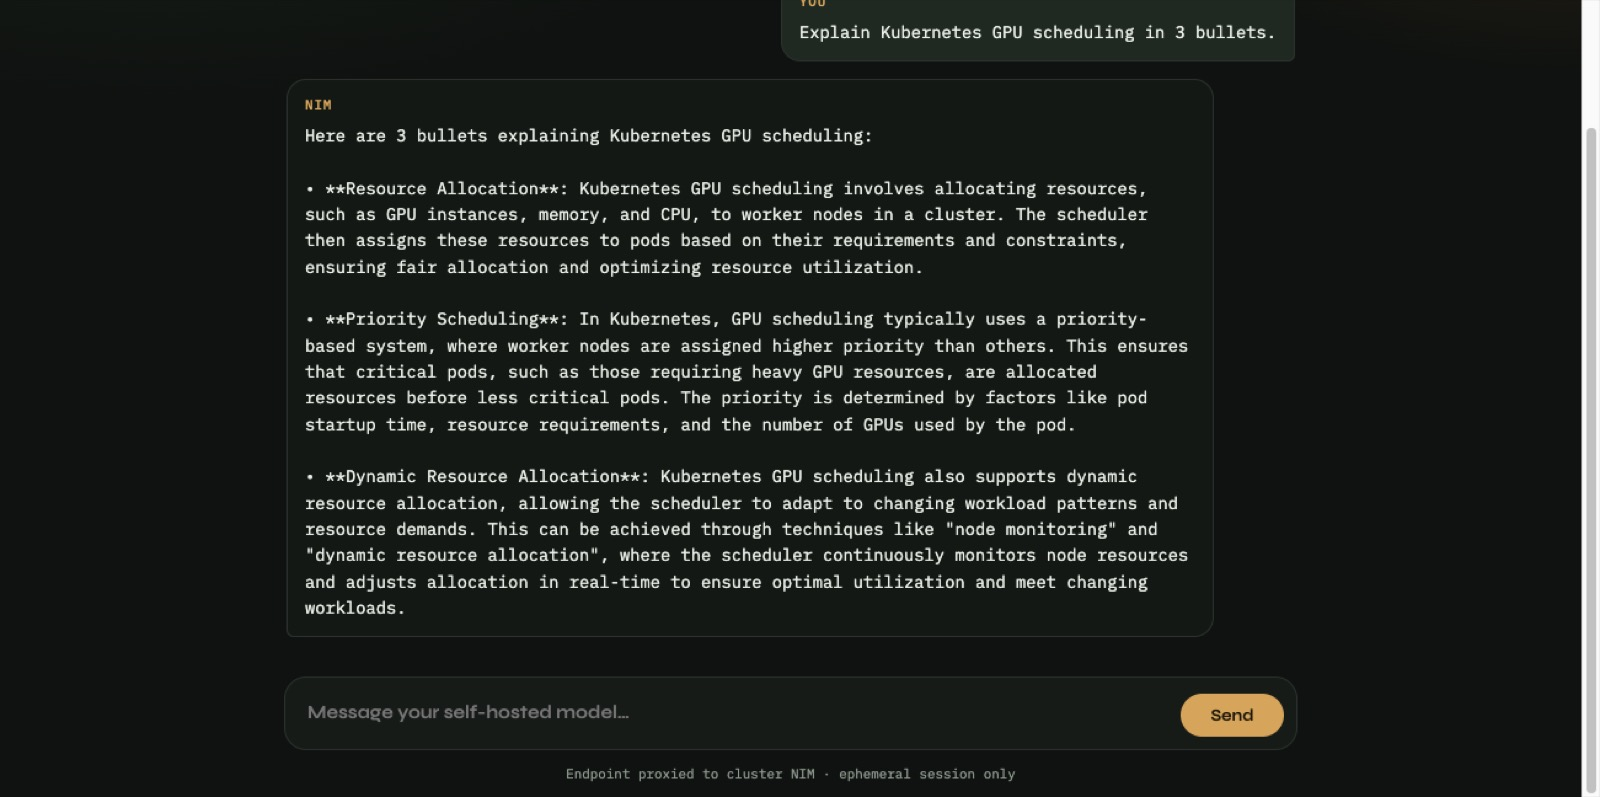
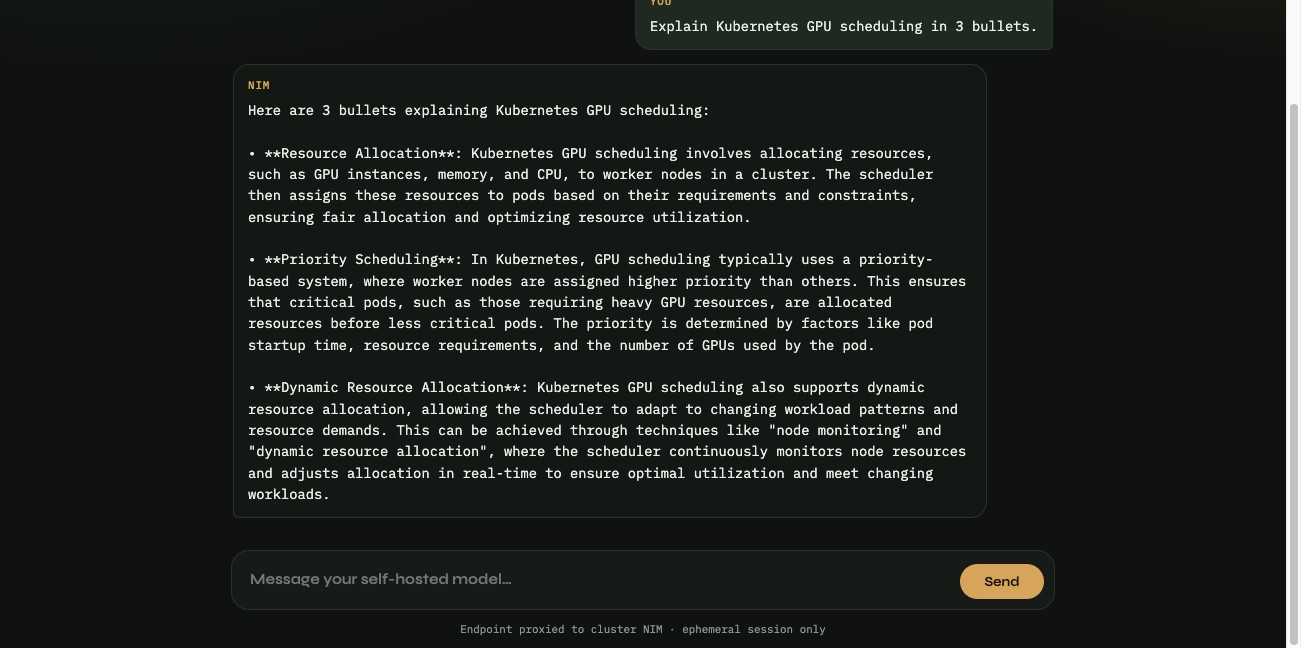
Fix blog screenshots: use native SVGs and trim chat UI padding.

diff --git a/Documents/aks-nim-llm-inference-on-azure.md b/Documents/aks-nim-llm-inference-on-azure.md
@@ -85,7 +85,7 @@ You do **not** need to memorize these. Come back here when a word appears.
 
 ## 3. What we built (big picture)
 
-![Lab overview](/documents/aks-nim-llm/00-lab-overview.jpg)
+![Lab overview](/documents/aks-nim-llm/00-lab-overview.svg)
 
 *Figure: end-to-end flow from AKS create → GPU → Operator → CUDA → NIM → inference.*
 
@@ -287,7 +287,7 @@ source ./00-env.sh
 **Why system pool is CPU-only:**  
 Kubernetes system pods should not sit on expensive GPUs.
 
-![Stage 01 — create AKS](/documents/aks-nim-llm/01-create-aks.jpg)
+![Stage 01 — create AKS](/documents/aks-nim-llm/01-create-aks.svg)
 
 *Figure: creating the resource group and AKS system pool.*
 
@@ -315,13 +315,13 @@ You should see one Ready node (system pool).
 **Why the taint?**  
 Stops random workloads from consuming the GPU node.
 
-![Stage 02 — GPU node pool](/documents/aks-nim-llm/02-add-gpu-nodepool.jpg)
+![Stage 02 — GPU node pool](/documents/aks-nim-llm/02-add-gpu-nodepool.svg)
 
 *Figure: GPU pool created with driver install skipped.*
 
 Verify nodes (live lab capture):
 
-![kubectl get nodes](/documents/aks-nim-llm/kubectl-get-nodes.jpg)
+![kubectl get nodes](/documents/aks-nim-llm/kubectl-get-nodes.svg)
 
 *Figure: system node + GPU node; GPU column shows `1` after Operator is healthy.*
 
@@ -336,13 +336,13 @@ Verify nodes (live lab capture):
 **Why tolerations matter (we learned the hard way):**  
 Without them, Operator pods stay on the CPU node, drivers never install on the GPU node, and Kubernetes reports **no GPU** (`nvidia.com/gpu` missing). CUDA jobs stay Pending forever.
 
-![Stage 03 — GPU Operator](/documents/aks-nim-llm/03-install-gpu-operator.jpg)
+![Stage 03 — GPU Operator](/documents/aks-nim-llm/03-install-gpu-operator.svg)
 
 *Figure: Operator deployed; GPU allocatable becomes 1.*
 
 Operator pods look like this:
 
-![GPU Operator pods](/documents/aks-nim-llm/kubectl-get-pods-gpu-operator.jpg)
+![GPU Operator pods](/documents/aks-nim-llm/kubectl-get-pods-gpu-operator.svg)
 
 *Figure: driver, device-plugin, toolkit, validators running.*
 
@@ -357,7 +357,7 @@ Operator pods look like this:
 
 **Why:** before downloading a huge NIM image, prove the GPU path works.
 
-![Stage 04 — CUDA Test PASSED](/documents/aks-nim-llm/04-validate-gpu.jpg)
+![Stage 04 — CUDA Test PASSED](/documents/aks-nim-llm/04-validate-gpu.svg)
 
 *Figure: CUDA vector addition completed with **Test PASSED**.*
 
@@ -387,13 +387,13 @@ T4 has **16 GB** GPU memory. Llama-3.1-8B is typically too large. We used:
 - image: `nvcr.io/nim/meta/llama-3.2-1b-instruct:1.12.0`  
 - env: `NIM_RELAX_MEM_CONSTRAINTS=1`  
 
-![Stage 05 — deploy NIM](/documents/aks-nim-llm/05-deploy-nim.jpg)
+![Stage 05 — deploy NIM](/documents/aks-nim-llm/05-deploy-nim.svg)
 
 *Figure: Helm release deployed; service received a public IP.*
 
 NIM pods/services:
 
-![kubectl get nim](/documents/aks-nim-llm/kubectl-get-nim.jpg)
+![kubectl get nim](/documents/aks-nim-llm/kubectl-get-nim.svg)
 
 *Figure: `llm-nim-0` Running and LoadBalancer EXTERNAL-IP assigned.*
 
@@ -401,7 +401,7 @@ NIM pods/services:
 
 Cluster status snapshot:
 
-![Cluster status](/documents/aks-nim-llm/06-cluster-status.jpg)
+![Cluster status](/documents/aks-nim-llm/06-cluster-status.svg)
 
 ---
 
@@ -415,7 +415,7 @@ Calls:
 2. `/v1/models`  
 3. `/v1/chat/completions`  
 
-![Inference response](/documents/aks-nim-llm/07-inference-response.jpg)
+![Inference response](/documents/aks-nim-llm/07-inference-response.svg)
 
 *Figure: health OK + sample chat completion from the self-hosted model.*
 
@@ -478,25 +478,25 @@ After teardown those IPs die — treat them as historical examples.
 
 **Why:** confirms the server finished loading the model.
 
-![curl health](/documents/aks-nim-llm/curl-health.jpg)
+![curl health](/documents/aks-nim-llm/curl-health.svg)
 
 ### List models
 
 **Why:** shows the exact model id string you must send in chat requests.
 
-![curl models](/documents/aks-nim-llm/curl-models.jpg)
+![curl models](/documents/aks-nim-llm/curl-models.svg)
 
 ### Chat completion
 
 **Why:** this is the same API shape many apps use for OpenAI.
 
-![curl chat](/documents/aks-nim-llm/curl-chat-completions.jpg)
+![curl chat](/documents/aks-nim-llm/curl-chat-completions.svg)
 
 ### Chat UI proxy health
 
 **Why:** proves the webpage’s `/api` path reaches NIM.
 
-![curl chat ui proxy](/documents/aks-nim-llm/curl-chat-ui-proxy.jpg)
+![curl chat ui proxy](/documents/aks-nim-llm/curl-chat-ui-proxy.svg)
 
 ### Example request (copy/paste pattern)
 
